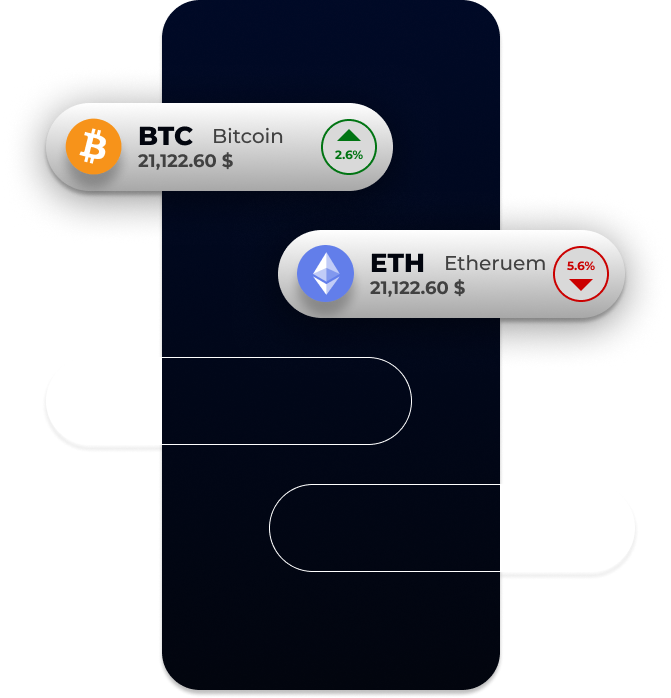
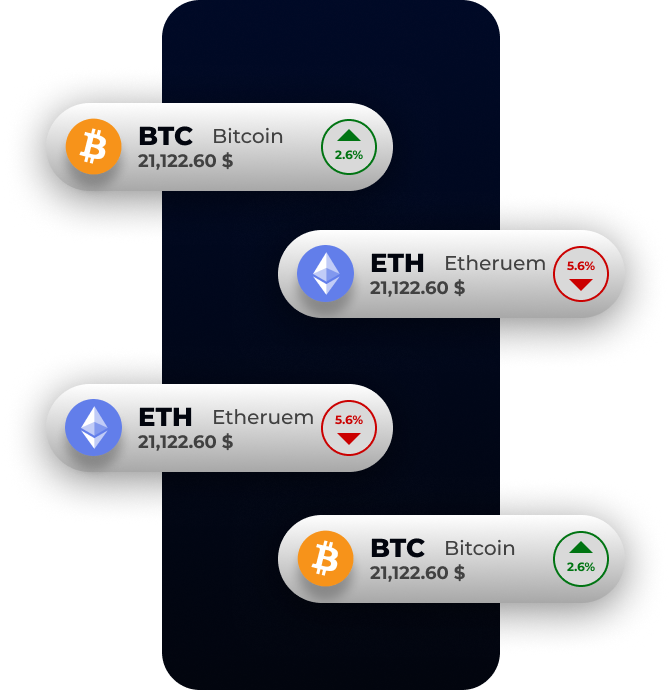
Replaced Images

diff --git a/dist/index.css b/dist/index.css
@@ -1320,8 +1320,9 @@ input {
   margin: 0 auto;
   display: block;
   width: 100%;
-  max-width: 50rem;
+  max-width: 75rem;
   position: relative;
+  margin-top: 7.5rem;
 }
 .page-index .tokenomics main .tokenomics-chart > .ellipse {
   position: absolute;
@@ -1569,14 +1570,14 @@ input {
 }
 .page-index .portfolio main {
   position: relative;
-  padding-top: 6.25rem;
+  padding-top: 0rem;
 }
 .page-index .portfolio main .portfolio-phones {
   position: absolute;
   top: 0;
   right: 0;
-  right: -6%;
-  width: 70%;
+  right: 0%;
+  width: 60%;
   z-index: -10;
 }
 .page-index .portfolio main .portfolio-phones > .ellipse {
@@ -1862,7 +1863,7 @@ input {
     margin-right: 1.875rem;
   }
   .page-index .tokenomics main .tokenomics-chart {
-    max-width: 37.5rem;
+    max-width: 50rem;
   }
   .page-index .hero-section .left {
     flex: 1;
@@ -2120,6 +2121,7 @@ input {
   }
   .page-index .tokenomics main .tokenomics-chart {
     max-width: 31.25rem;
+    margin-top: 5rem;
   }
   .page-index .trade-and-earn .fs-100px {
     font-size: 2.5rem;
@@ -2365,6 +2367,7 @@ input {
     display: block;
     width: 100%;
     max-width: 31.25rem;
+    margin-top: 5rem;
   }
   .page-index .roadmap .cont-wrapper {
     width: 100%;
@@ -2475,6 +2478,9 @@ input {
   .page-index .roadmap .roadmap-road .roadmap-card-title {
     font-size: 1rem;
   }
+  .page-index .portfolio .mb-90px {
+    margin-bottom: 3.125rem;
+  }
   .page-index .portfolio main {
     padding-top: 0rem;
     display: flex;
@@ -2483,6 +2489,9 @@ input {
   .page-index .portfolio main .portfolio-phones {
     position: static;
     width: 100%;
+    max-width: 37.5rem;
+    margin: 0 auto;
+    margin-bottom: 1.875rem;
   }
   .page-index .portfolio main .cards .fs-30px {
     font-size: 1rem;

diff --git a/sass/pages/_index-page.scss b/sass/pages/_index-page.scss
@@ -239,8 +239,9 @@
         margin: 0 auto;
         display: block;
         width: 100%;
-        max-width: rem(800);
+        max-width: rem(1200);
         position: relative;
+        margin-top: rem(120);
 
         & > .ellipse {
           position: absolute;
@@ -540,14 +541,14 @@
   .portfolio {
     main {
       position: relative;
-      padding-top: rem(100);
+      padding-top: rem(0);
 
       .portfolio-phones {
         position: absolute;
         top: 0;
         right: 0;
-        right: -6%;
-        width: 70%;
+        right: 0%;
+        width: 60%;
         z-index: -10;
 
         & > .ellipse {
@@ -919,7 +920,7 @@
     .tokenomics {
       main {
         .tokenomics-chart {
-          max-width: rem(600);
+          max-width: rem(800);
         }
       }
     }
@@ -1296,6 +1297,7 @@
       main {
         .tokenomics-chart {
           max-width: rem(500);
+          margin-top: rem(80);
         }
       }
     }
@@ -1627,6 +1629,7 @@
           display: block;
           width: 100%;
           max-width: rem(500);
+          margin-top: rem(80);
         }
       }
     }
@@ -1788,6 +1791,10 @@
     }
 
     .portfolio {
+      .mb-90px {
+        margin-bottom: rem(50);
+      }
+
       main {
         padding-top: rem(0);
         display: flex;
@@ -1796,6 +1803,9 @@
         .portfolio-phones {
           position: static;
           width: 100%;
+          max-width: rem(600);
+          margin: 0 auto;
+          margin-bottom: rem(30);
         }
 
         .cards {

diff --git a/index.html b/index.html
@@ -197,7 +197,7 @@
 
           <div class="tokenomics-chart flex">
             <img
-              src="assets/images/tokenomics-chart.png"
+              src="assets/images/tokenomics-chart-2.png"
               class="w-full"
               alt=""
             />
@@ -563,7 +563,7 @@
 
           <div class="portfolio-phones">
             <img
-              src="assets/images/portfolio-phones.png"
+              src="assets/images/portfolio-phones-2.png"
               class="w-full"
               alt=""
             />
